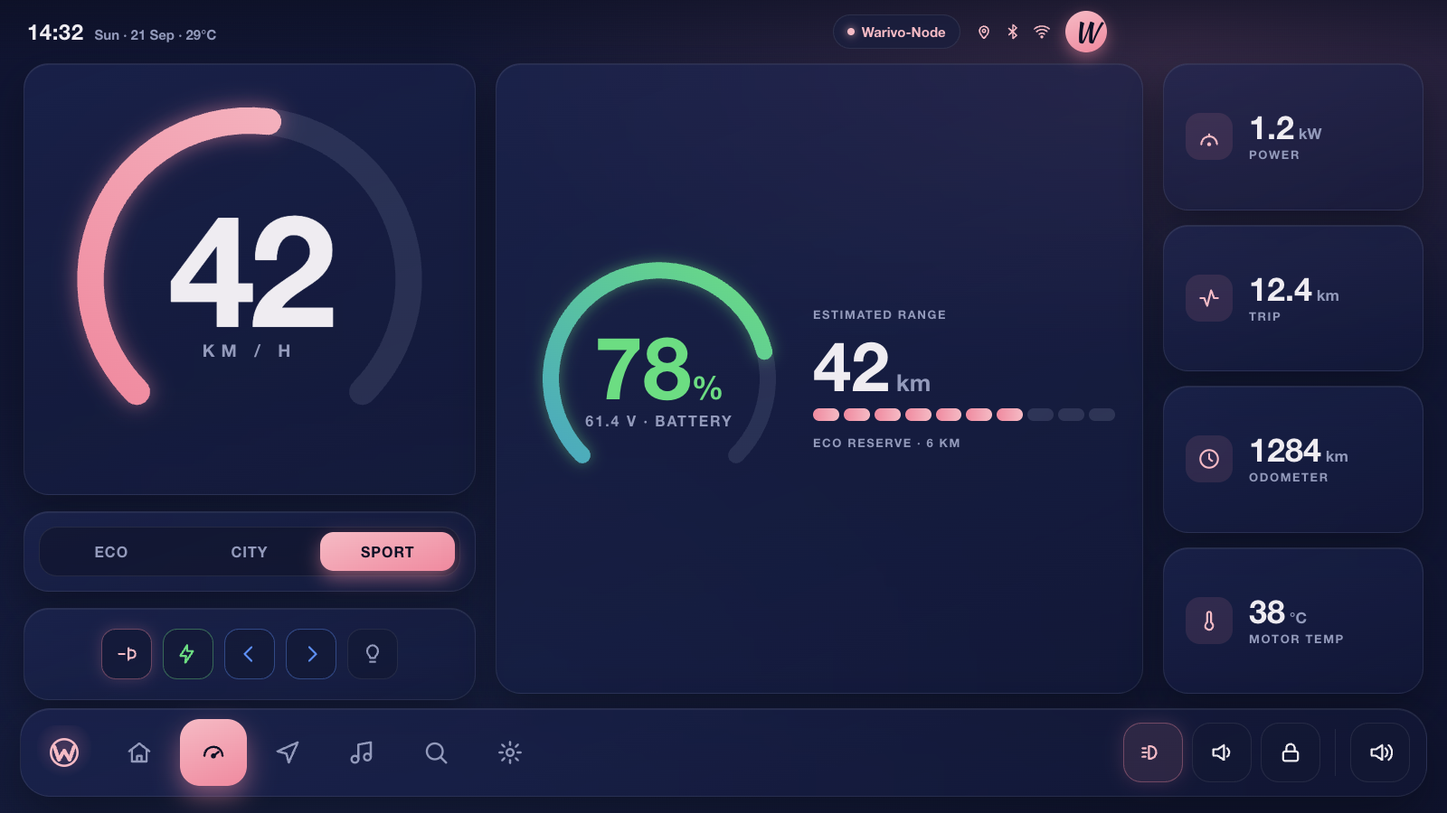
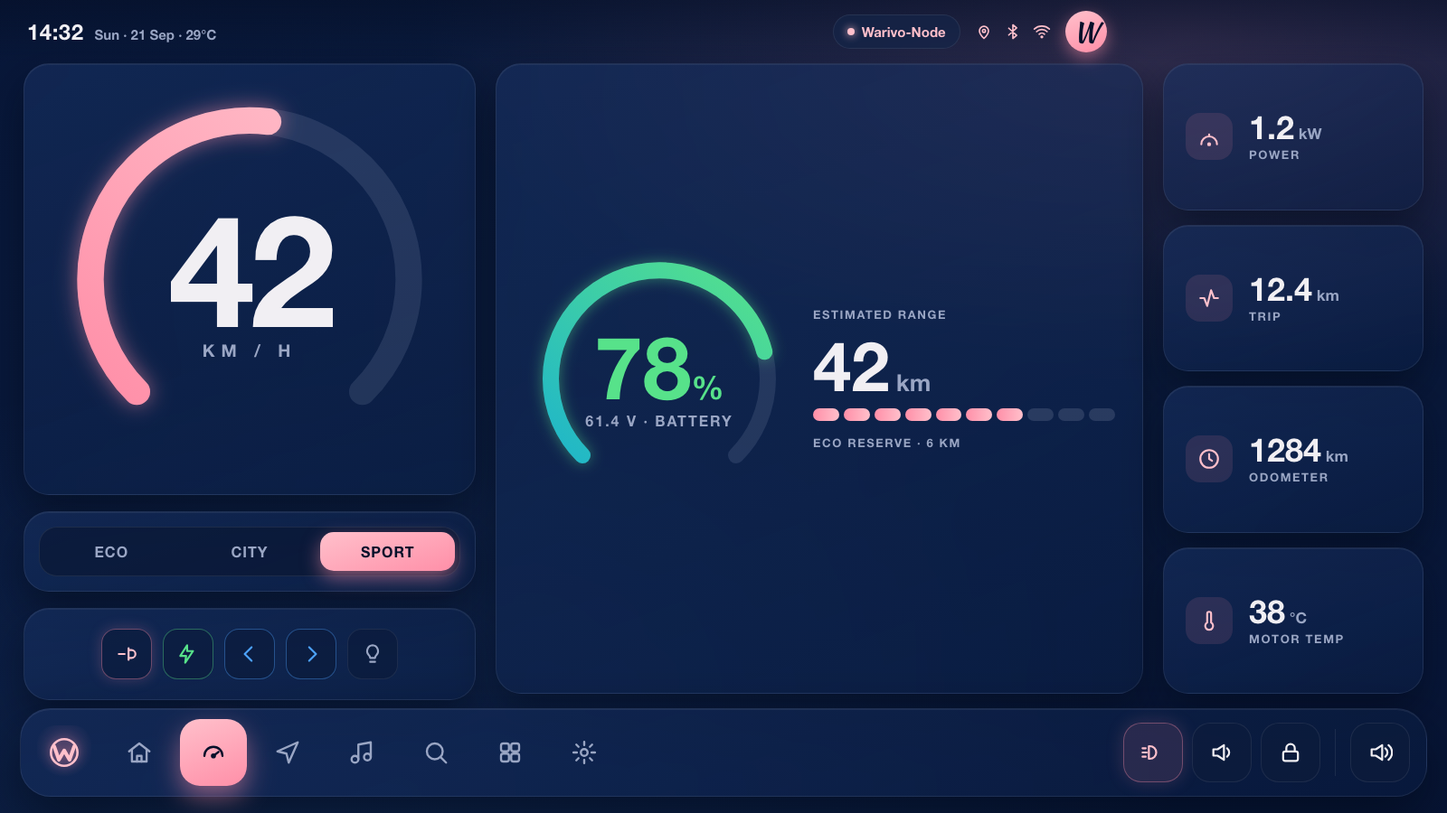
mockups: Control Center screen — bento grid of vehicle functions
Branding/mockup work from the parallel session, committed as-is — not reviewed
here beyond checking it touches nothing outside branding/.

  - New 09-controls.html: a 16-column bento of vehicle functions — ride-mode
    hero, immobiliser, alarm, underglow, find-my-scooter, and seat/charge/horn/
    hazard tiles, plus a mini player.
  - State is carried by the tile fill rather than a border: dark off, white
    engaged, blush accent, so the lit tiles are the only thing that reads from
    across the cabin.
  - Dock gains a Controls entry on every screen; actions.js toggles the new
    tiles, remembering an accent tile so a second tap lights it blush again.
  - warivo.css gains the .cc/.bento/.bt rules; index.html and branding/README.md
    list the new screen; all PNGs re-rendered from the current CSS.

diff --git a/branding/mockups/09-controls.html b/branding/mockups/09-controls.html
@@ -1,0 +1,193 @@
+<!DOCTYPE html>
+<html lang="en">
+<head>
+<meta charset="utf-8"/>
+<title>Warivo OS — Control Center</title>
+<link rel="stylesheet" href="warivo.css"/>
+</head>
+<body>
+<div class="os">
+  <div class="stage">
+    <div class="screen">
+      <div class="cc">
+        <div class="cc-head">
+          <div class="h">Control Center</div>
+          <div class="edit"><svg viewBox="0 0 24 24"><circle cx="12" cy="12" r="3"/><path d="M12 2.5v3M12 18.5v3M2.5 12h3M18.5 12h3M5 5l2 2M17 17l2 2M19 5l-2 2M7 17l-2 2"/></svg></div>
+        </div>
+
+        <div class="bento">
+          <!-- HERO — ride mode -->
+          <div class="bt hero">
+            <div class="ht">Ride<br/>Mode</div>
+            <div class="hs">personalise</div>
+            <div class="art">
+              <svg viewBox="0 0 320 175">
+                <defs>
+                  <linearGradient id="body" x1=".15" y1="0" x2=".4" y2="1">
+                    <stop offset="0" stop-color="#5C6B90"/><stop offset=".42" stop-color="#222E4A"/>
+                    <stop offset="1" stop-color="#0A1123"/>
+                  </linearGradient>
+                  <linearGradient id="shield" x1=".2" y1="0" x2=".7" y2="1">
+                    <stop offset="0" stop-color="#54648A"/><stop offset=".5" stop-color="#1D2841"/>
+                    <stop offset="1" stop-color="#090F1F"/>
+                  </linearGradient>
+                  <linearGradient id="rim" x1="0" y1="0" x2="1" y2="1">
+                    <stop offset="0" stop-color="#FFC0CB"/><stop offset="1" stop-color="#FF8FA8"/>
+                  </linearGradient>
+                  <radialGradient id="shadow" cx=".5" cy=".5" r=".5">
+                    <stop offset="0" stop-color="#03081A" stop-opacity=".92"/>
+                    <stop offset="1" stop-color="#03081A" stop-opacity="0"/>
+                  </radialGradient>
+                </defs>
+                <ellipse cx="158" cy="157" rx="138" ry="15" fill="url(#shadow)"/>
+
+                <!-- rear cowl rising over the back wheel, dropping to the footboard -->
+                <path fill="url(#body)" d="M38 114 C33 88 48 73 78 72 L150 76 L170 94 L198 102
+                  L202 124 L124 130 L54 128 Z"/>
+                <!-- front leg shield up to the bars -->
+                <path fill="url(#shield)" d="M184 102 L205 56 C210 43 221 38 236 38 L252 38 L263 58
+                  L269 102 L263 124 L228 128 L196 126 L186 114 Z"/>
+
+                <!-- seat: a pad you can actually see, with its own top highlight -->
+                <path fill="#1A2440" d="M94 78 C95 64 107 58 122 58 L177 58 C187 58 191 66 191 75
+                  L191 83 L96 86 Z"/>
+                <path fill="none" stroke="#46557C" stroke-width="1.6" stroke-linecap="round"
+                      d="M100 66 C105 60 112 58 123 58 L177 58 C186 58 190 65 190 73"/>
+
+                <!-- blush rim light where it really falls: cowl shoulder + shield leading edge -->
+                <path fill="none" stroke="url(#rim)" stroke-width="3" stroke-linecap="round"
+                      d="M45 96 C43 84 55 74 78 73 L118 75"/>
+                <path fill="none" stroke="url(#rim)" stroke-width="3" stroke-linecap="round"
+                      d="M206 56 C211 43 221 38 236 38 L250 38"/>
+
+                <!-- handlebar + headlamp -->
+                <path fill="none" stroke="#3B4A6E" stroke-width="6" stroke-linecap="round" d="M230 40 L257 27"/>
+                <circle cx="268" cy="66" r="9" fill="url(#rim)"/>
+                <circle cx="268" cy="66" r="20" fill="url(#rim)" opacity=".15"/>
+
+                <!-- wheels last: they sit in front of the bodywork -->
+                <circle cx="82" cy="124" r="30" fill="#060B18" stroke="#080E1E" stroke-width="13"/>
+                <circle cx="246" cy="124" r="30" fill="#060B18" stroke="#080E1E" stroke-width="13"/>
+                <circle cx="82" cy="124" r="36.2" fill="none" stroke="#31405E" stroke-width="1.4"/>
+                <circle cx="246" cy="124" r="36.2" fill="none" stroke="#31405E" stroke-width="1.4"/>
+                <circle cx="82" cy="124" r="14" fill="none" stroke="#3C4D77" stroke-width="5"/>
+                <circle cx="246" cy="124" r="14" fill="none" stroke="#3C4D77" stroke-width="5"/>
+                <circle cx="82" cy="124" r="4.5" fill="#546590"/>
+                <circle cx="246" cy="124" r="4.5" fill="#546590"/>
+              </svg>
+            </div>
+          </div>
+
+          <!-- ROW 1 -->
+          <div class="bt sq">
+            <svg viewBox="0 0 24 24"><rect x="4" y="11" width="16" height="9" rx="2.5"/><path d="M8 11V8.5a4 4 0 0 1 8 0V11"/><path d="M12 15v1.5"/></svg>
+            <div class="l">Seat Lock</div>
+          </div>
+          <div class="bt sq">
+            <svg viewBox="0 0 24 24"><rect x="6" y="6" width="12" height="14" rx="2.5"/><path d="M9.5 6V4.5h5V6"/><path d="M12 9.5v3.5M12 13l-1.6 2.5h3.2"/></svg>
+            <div class="l">Charge Port</div>
+          </div>
+          <div class="bt wd on">
+            <svg viewBox="0 0 24 24"><rect x="4" y="10" width="16" height="10" rx="2.5"/><path d="M8 10V7a4 4 0 0 1 8 0v3"/><path d="M12 14v2.5"/></svg>
+            <div class="tx"><div class="t">Immobiliser</div><div class="s">Armed · motor cut at the controller</div></div>
+          </div>
+          <div class="bt wd">
+            <svg viewBox="0 0 24 24"><path d="M12 3 20 6v5.5c0 4.6-3.2 7.6-8 9.5-4.8-1.9-8-4.9-8-9.5V6z"/><path d="M9 12l2.2 2.2L15.5 10"/></svg>
+            <div class="tx"><div class="t">Anti-Theft Alarm</div><div class="s">Factory siren · tilt + tow armed</div></div>
+          </div>
+
+          <!-- ROW 2 -->
+          <div class="bt sq">
+            <svg viewBox="0 0 24 24"><path d="M4 10h3l5-4v12l-5-4H4z"/><path d="M16 9a4 4 0 0 1 0 6"/><path d="M19 6.5a7.5 7.5 0 0 1 0 11"/></svg>
+            <div class="l">Horn</div>
+          </div>
+          <div class="bt sq">
+            <svg viewBox="0 0 24 24"><path d="M12 3 3.5 18.5h17z"/><path d="M12 9v4"/><path d="M12 15.5v.6"/></svg>
+            <div class="l">Hazards</div>
+          </div>
+          <div class="bt wd hot">
+            <svg viewBox="0 0 24 24"><circle cx="12" cy="12" r="4"/><path d="M12 2.5v3M12 18.5v3M2.5 12h3M18.5 12h3M5.2 5.2l2.1 2.1M16.7 16.7l2.1 2.1M18.8 5.2l-2.1 2.1M7.3 16.7l-2.1 2.1"/></svg>
+            <div class="tx"><div class="t">Underglow</div><div class="s">Blush · 60% · follows ride mode</div></div>
+          </div>
+          <div class="bt wd">
+            <svg viewBox="0 0 24 24"><path d="M21 3 3 10.5l8 2.5 2.5 8z"/></svg>
+            <div class="tx"><div class="t">Find My Scooter</div><div class="s">Pinged · seen 2 min ago, 40 m away</div></div>
+          </div>
+
+          <!-- ROW 3 -->
+          <div class="bt sq">
+            <svg viewBox="0 0 24 24"><path d="M4 12h5M13 7.5h2.5a4.5 4.5 0 0 1 0 9H13z"/><path d="M13 5.5v13"/></svg>
+            <div class="l">Headlight</div>
+          </div>
+          <div class="bt sq">
+            <svg viewBox="0 0 24 24"><path d="M20 8H9.5a4.5 4.5 0 0 0 0 9H15"/><path d="M12.5 4.5 9 8l3.5 3.5"/></svg>
+            <div class="l">Reverse</div>
+          </div>
+          <div class="bt sq">
+            <svg viewBox="0 0 24 24"><path d="M4.5 15a7.5 7.5 0 0 1 15 0"/><path d="M12 15l4-3.2"/><circle cx="12" cy="15" r="1.3"/><path d="M8 19.5h8"/></svg>
+            <div class="l">Cruise Hold</div>
+          </div>
+          <div class="bt sq">
+            <svg viewBox="0 0 24 24"><circle cx="12" cy="12" r="8"/><circle cx="12" cy="12" r="3"/><path d="M12 4v1.5M12 18.5V20M4 12h1.5M18.5 12H20"/></svg>
+            <div class="l">Tyre PSI</div>
+          </div>
+          <div class="bt wd">
+            <svg viewBox="0 0 24 24"><path d="M12 21c0-6 3.5-10 8-11-1 5.5-4 9.5-8 11z"/><path d="M12 21C12 15 8.5 11 4 10c1 5.5 4 9.5 8 11z"/><path d="M12 21v-4"/><path d="M9.5 3v3.5a2.5 2.5 0 0 0 5 0V3"/></svg>
+            <div class="tx"><div class="t">Eco Regen</div><div class="s">Recovers 8% of pack per city ride</div></div>
+          </div>
+          <div class="bt media">
+            <div class="cover"><svg viewBox="0 0 24 24"><path d="M9 18V5l11-2v13"/><circle cx="6" cy="18" r="3"/><circle cx="17" cy="16" r="3"/></svg></div>
+            <div class="mx">
+              <div class="t">Midnight City Lights</div>
+              <div class="s">Neon Skyline</div>
+              <div class="eq"><i style="height:9px"></i><i style="height:18px"></i><i style="height:13px"></i><i style="height:22px"></i><i style="height:7px"></i><i style="height:16px"></i><i style="height:11px"></i></div>
+            </div>
+            <div class="pbtn"><svg viewBox="0 0 24 24"><path d="M7 5h3v14H7zM14 5h3v14h-3z"/></svg></div>
+          </div>
+        </div>
+
+        <div class="cc-dots"><i class="on"></i><i></i><i></i></div>
+      </div>
+    </div>
+  </div>
+
+  <!-- TOP STATUS -->
+  <div class="topbar">
+    <div class="clock"><span class="t">14:32</span><span class="d">Sun · 21 Sep · 29°C</span></div>
+    <div class="sp"></div>
+    <div class="stat">
+      <div class="chip live"><span class="dot"></span>Warivo-Node</div>
+      <div class="sig">
+        <svg class="on" viewBox="0 0 24 24"><path d="M12 21s-6-5.7-6-10a6 6 0 1 1 12 0c0 4.3-6 10-6 10z"/><circle cx="12" cy="11" r="2"/></svg>
+        <svg class="on" viewBox="0 0 24 24"><path d="M6.5 7.5 17 17l-5 4V3l5 4-10.5 9.5"/></svg>
+        <svg class="on" viewBox="0 0 24 24"><path d="M2 8.5a15 15 0 0 1 20 0"/><path d="M5 12a10 10 0 0 1 14 0"/><path d="M8.5 15.5a5 5 0 0 1 7 0"/><circle cx="12" cy="19" r="1"/></svg>
+      </div>
+      <div class="avatar">W</div>
+    </div>
+  </div>
+
+  <!-- DOCK -->
+  <div class="dock">
+    <div class="dock-apps">
+      <a href="00-home.html" class="brand"><svg viewBox="0 0 120 120"><circle cx="60" cy="60" r="40" fill="none" stroke="#FFC0CB" stroke-width="7"/><polyline points="30,42 44,82 60,54 76,82 90,42" fill="none" stroke="#FFC0CB" stroke-width="11" stroke-linecap="round" stroke-linejoin="round"/></svg></a>
+      <a href="00-home.html" class="tile"><svg viewBox="0 0 24 24"><path d="M3 11l9-7 9 7"/><path d="M5.5 9.5V20h13V9.5"/><path d="M10 20v-5h4v5"/></svg></a>
+      <a href="02-dashboard.html" class="tile"><svg viewBox="0 0 24 24"><path d="M4 15a8 8 0 0 1 16 0"/><path d="M12 15l4.5-3.5"/><circle cx="12" cy="15" r="1.3"/></svg></a>
+      <a href="03-map.html" class="tile"><svg viewBox="0 0 24 24"><path d="M3 11l18-8-8 18-2-8z"/></svg></a>
+      <a href="04-music.html" class="tile"><svg viewBox="0 0 24 24"><path d="M9 18V5l11-2v13"/><circle cx="6" cy="18" r="3"/><circle cx="17" cy="16" r="3"/></svg></a>
+      <a href="05-search.html" class="tile"><svg viewBox="0 0 24 24"><circle cx="11" cy="11" r="7"/><path d="M21 21l-4.3-4.3"/></svg></a>
+      <a href="09-controls.html" class="tile active"><svg viewBox="0 0 24 24"><rect x="4" y="4" width="7" height="7" rx="2"/><rect x="13" y="4" width="7" height="7" rx="2"/><rect x="4" y="13" width="7" height="7" rx="2"/><rect x="13" y="13" width="7" height="7" rx="2"/></svg></a>
+      <a href="06-settings.html" class="tile"><svg viewBox="0 0 24 24"><circle cx="12" cy="12" r="3"/><path d="M12 2.5v3M12 18.5v3M2.5 12h3M18.5 12h3M5 5l2 2M17 17l2 2M19 5l-2 2M7 17l-2 2"/></svg></a>
+    </div>
+    <div class="dock-ctrl">
+      <div class="ctrl on"><svg viewBox="0 0 24 24"><path d="M2 8h3M2 12h4M2 16h3"/><path d="M9 6a6 6 0 0 1 0 12h-1V6z"/></svg></div>
+      <div class="ctrl"><svg viewBox="0 0 24 24"><path d="M4 9v6h4l6 4V5L8 9H4z"/><path d="M17 8a5 5 0 0 1 0 8"/></svg></div>
+      <div class="ctrl on"><svg viewBox="0 0 24 24"><rect x="5" y="11" width="14" height="9" rx="2"/><path d="M8 11V8a4 4 0 0 1 8 0v3"/></svg></div>
+      <div class="sep"></div>
+      <div class="ctrl"><svg viewBox="0 0 24 24"><path d="M4 9v6h4l6 4V5L8 9H4z"/><path d="M17 8a5 5 0 0 1 0 8M20 5a9 9 0 0 1 0 14"/></svg></div>
+    </div>
+  </div>
+</div>
+<script src="fit.js"></script>
+<script src="actions.js"></script>
+</body>
+</html>

diff --git a/branding/mockups/warivo.css b/branding/mockups/warivo.css
@@ -159,3 +159,73 @@ body{
 @keyframes press{0%{transform:scale(1)}40%{transform:scale(.88)}100%{transform:scale(1)}}
 @keyframes wglow{0%,100%{filter:drop-shadow(0 0 5px rgba(255,143,168,.4))}50%{filter:drop-shadow(0 0 16px rgba(255,143,168,.85))}}
 .dock .brand svg{animation:wglow 3s ease-in-out infinite}
+
+/* ---- Control Center: bento grid of vehicle functions -------------------
+   A 16-column bento of flat tiles. State is carried by the tile *fill*, not by
+   a border: dark = off, white (.on) = engaged, blush (.hot) = accent. Icons are
+   one stroke weight throughout and secondary text sits at ~58% so the lit tiles
+   are the only thing that reads from across the cabin. */
+.cc{display:flex;flex-direction:column;width:100%;gap:16px}
+.cc-head{display:flex;align-items:center;justify-content:space-between;height:34px;padding:0 6px}
+.cc-head .h{font-size:17px;font-weight:800;letter-spacing:3.4px;text-transform:uppercase}
+.cc-head .edit{width:44px;height:44px;border-radius:50%;display:grid;place-items:center;
+  background:rgba(255,255,255,.07);border:1px solid var(--line);color:var(--text)}
+.cc-head .edit svg{width:22px;height:22px;stroke:currentColor;fill:none;stroke-width:1.9;
+  stroke-linecap:round;stroke-linejoin:round}
+.cc-dots{display:flex;align-items:center;justify-content:center;gap:9px;height:22px}
+.cc-dots i{width:9px;height:9px;border-radius:5px;background:rgba(154,166,196,.32)}
+.cc-dots i.on{width:28px;background:var(--aqua);box-shadow:0 0 12px var(--glow)}
+
+.bento{flex:1;display:grid;grid-template-columns:repeat(16,1fr);grid-auto-rows:1fr;gap:16px}
+
+.bt{border-radius:22px;background:var(--surface);border:1px solid var(--line);
+  box-shadow:0 14px 30px rgba(2,8,22,.36);position:relative;overflow:hidden;transition:.18s}
+.bt svg{stroke:currentColor;fill:none;stroke-width:1.75;stroke-linecap:round;stroke-linejoin:round}
+
+/* square tile — icon centred, label beneath */
+.bt.sq{grid-column:span 2;display:flex;flex-direction:column;align-items:center;
+  justify-content:center;gap:18px;padding:16px 10px;color:var(--text)}
+.bt.sq svg{width:36px;height:36px}
+.bt.sq .l{font-size:15px;font-weight:700;color:var(--dim);text-align:center;line-height:1.2}
+
+/* wide tile — icon left, title over subtitle */
+.bt.wd{grid-column:span 4;display:flex;align-items:center;gap:20px;padding:0 26px;color:var(--text)}
+.bt.wd svg{width:40px;height:40px;flex:0 0 auto}
+.bt.wd .tx{display:flex;flex-direction:column;gap:5px;min-width:0}
+.bt.wd .t{font-size:19px;font-weight:700;letter-spacing:.2px}
+.bt.wd .s{font-size:14px;font-weight:600;color:var(--dim)}
+
+/* the two lit states */
+.bt.on{background:#F4F1F6;border-color:transparent;color:var(--black);
+  box-shadow:0 16px 34px rgba(2,8,22,.5)}
+.bt.on .l,.bt.on .s{color:rgba(5,16,42,.58)}
+.bt.hot{background:linear-gradient(150deg,var(--aqua),var(--aqua-deep));border-color:transparent;
+  color:var(--black);box-shadow:0 16px 36px var(--glow)}
+.bt.hot .l,.bt.hot .s{color:rgba(5,16,42,.62)}
+
+/* hero — ride mode, with the scooter render bleeding off the card */
+.bt.hero{grid-column:span 4;grid-row:span 2;display:flex;flex-direction:column;padding:28px 30px;
+  background:radial-gradient(120% 85% at 78% 10%, rgba(255,143,168,.20), transparent 58%),
+             linear-gradient(200deg,#0D1B3C,#060D20)}
+.bt.hero .ht{font-size:38px;font-weight:800;line-height:.94;letter-spacing:-.8px;text-transform:uppercase}
+.bt.hero .hs{font-family:'Warivo Script',cursive;font-size:34px;color:var(--aqua);margin-top:10px;
+  filter:drop-shadow(0 3px 14px var(--glow))}
+.bt.hero .art{position:absolute;left:-30px;right:-30px;bottom:-20px}
+.bt.hero .art svg{width:100%;height:auto;stroke:none}
+
+/* media — album art, equaliser, transport pill */
+.bt.media{grid-column:span 4;display:flex;align-items:center;padding:0}
+.bt.media .cover{width:112px;align-self:stretch;flex:0 0 auto;display:grid;place-items:center;
+  background:linear-gradient(150deg,#FFC0CB,#9B7BE0 58%,#4DA3FF)}
+.bt.media .cover svg{width:42px;height:42px;stroke:rgba(5,16,42,.7);stroke-width:1.9}
+.bt.media .mx{flex:1;min-width:0;padding:0 6px 0 18px;overflow:hidden}
+.bt.media .t{font-size:17px;font-weight:700;white-space:nowrap;overflow:hidden;text-overflow:ellipsis}
+.bt.media .s{font-size:13px;font-weight:600;color:var(--dim);margin-top:3px}
+.bt.media .eq{display:flex;align-items:flex-end;gap:4px;height:22px;margin-top:11px}
+.bt.media .eq i{width:4px;border-radius:2px;background:var(--aqua)}
+.bt.media .pbtn{width:46px;height:46px;border-radius:50%;flex:0 0 auto;margin-right:18px;
+  display:grid;place-items:center;background:linear-gradient(150deg,var(--aqua),var(--aqua-deep));
+  box-shadow:0 8px 20px var(--glow)}
+.bt.media .pbtn svg{width:20px;height:20px;fill:var(--black);stroke:none}
+
+.bt.sq,.bt.wd,.bt.hero{cursor:pointer}

diff --git a/branding/mockups/index.html b/branding/mockups/index.html
@@ -100,13 +100,14 @@
     <a class="cardlink" href="03-map.html"><img class="thumb" src="png/03-map.png" alt="Navigation"/><div class="meta"><div class="l"><div class="n">Navigation</div><div class="f">03-map.html</div></div><div class="go"><svg viewBox="0 0 24 24"><path d="M5 12h14M13 6l6 6-6 6"/></svg></div></div></a>
     <a class="cardlink" href="04-music.html"><img class="thumb" src="png/04-music.png" alt="Media"/><div class="meta"><div class="l"><div class="n">Media</div><div class="f">04-music.html</div></div><div class="go"><svg viewBox="0 0 24 24"><path d="M5 12h14M13 6l6 6-6 6"/></svg></div></div></a>
     <a class="cardlink" href="05-search.html"><img class="thumb" src="png/05-search.png" alt="Google Search"/><div class="meta"><div class="l"><div class="n">Google Search</div><div class="f">05-search.html</div></div><div class="go"><svg viewBox="0 0 24 24"><path d="M5 12h14M13 6l6 6-6 6"/></svg></div></div></a>
+    <a class="cardlink" href="09-controls.html"><img class="thumb" src="png/09-controls.png" alt="Control Center"/><div class="meta"><div class="l"><div class="n">Control Center</div><div class="f">09-controls.html</div></div><div class="go"><svg viewBox="0 0 24 24"><path d="M5 12h14M13 6l6 6-6 6"/></svg></div></div></a>
     <a class="cardlink" href="06-settings.html"><img class="thumb" src="png/06-settings.png" alt="Settings"/><div class="meta"><div class="l"><div class="n">Settings</div><div class="f">06-settings.html</div></div><div class="go"><svg viewBox="0 0 24 24"><path d="M5 12h14M13 6l6 6-6 6"/></svg></div></div></a>
     <a class="cardlink" href="07-about.html"><img class="thumb" src="png/07-about.png" alt="About"/><div class="meta"><div class="l"><div class="n">About</div><div class="f">07-about.html</div></div><div class="go"><svg viewBox="0 0 24 24"><path d="M5 12h14M13 6l6 6-6 6"/></svg></div></div></a>
     <a class="cardlink" href="08-lock.html"><img class="thumb" src="png/08-lock.png" alt="Lock / PIN"/><div class="meta"><div class="l"><div class="n">Lock / PIN unlock</div><div class="f">08-lock.html</div></div><div class="go"><svg viewBox="0 0 24 24"><path d="M5 12h14M13 6l6 6-6 6"/></svg></div></div></a>
     <a class="cardlink" href="01-boot.html"><img class="thumb" src="png/01-boot.png" alt="Boot"/><div class="meta"><div class="l"><div class="n">Boot / Splash</div><div class="f">01-boot.html</div></div><div class="go"><svg viewBox="0 0 24 24"><path d="M5 12h14M13 6l6 6-6 6"/></svg></div></div></a>
   </div>
 
-  <div class="note">Tap any screen to open it. Inside a screen, use the bottom dock to move between Home · Dashboard · Navigation · Media · Search · Settings.</div>
+  <div class="note">Tap any screen to open it. Inside a screen, use the bottom dock to move between Home · Dashboard · Navigation · Media · Search · Control Center · Settings.</div>
 
   <script>
     (function () {

diff --git a/branding/mockups/03-map.html b/branding/mockups/03-map.html
@@ -151,6 +151,7 @@
       <a href="03-map.html" class="tile active"><svg viewBox="0 0 24 24"><path d="M3 11l18-8-8 18-2-8z"/></svg></a>
       <a href="04-music.html" class="tile"><svg viewBox="0 0 24 24"><path d="M9 18V5l11-2v13"/><circle cx="6" cy="18" r="3"/><circle cx="17" cy="16" r="3"/></svg></a>
       <a href="05-search.html" class="tile"><svg viewBox="0 0 24 24"><circle cx="11" cy="11" r="7"/><path d="M21 21l-4.3-4.3"/></svg></a>
+      <a href="09-controls.html" class="tile"><svg viewBox="0 0 24 24"><rect x="4" y="4" width="7" height="7" rx="2"/><rect x="13" y="4" width="7" height="7" rx="2"/><rect x="4" y="13" width="7" height="7" rx="2"/><rect x="13" y="13" width="7" height="7" rx="2"/></svg></a>
       <a href="06-settings.html" class="tile"><svg viewBox="0 0 24 24"><circle cx="12" cy="12" r="3"/><path d="M12 2.5v3M12 18.5v3M2.5 12h3M18.5 12h3M5 5l2 2M17 17l2 2M19 5l-2 2M7 17l-2 2"/></svg></a>
     </div>
     <div class="dock-ctrl">

diff --git a/branding/mockups/04-music.html b/branding/mockups/04-music.html
@@ -158,6 +158,7 @@
       <a href="03-map.html" class="tile"><svg viewBox="0 0 24 24"><path d="M3 11l18-8-8 18-2-8z"/></svg></a>
       <a href="04-music.html" class="tile active"><svg viewBox="0 0 24 24"><path d="M9 18V5l11-2v13"/><circle cx="6" cy="18" r="3"/><circle cx="17" cy="16" r="3"/></svg></a>
       <a href="05-search.html" class="tile"><svg viewBox="0 0 24 24"><circle cx="11" cy="11" r="7"/><path d="M21 21l-4.3-4.3"/></svg></a>
+      <a href="09-controls.html" class="tile"><svg viewBox="0 0 24 24"><rect x="4" y="4" width="7" height="7" rx="2"/><rect x="13" y="4" width="7" height="7" rx="2"/><rect x="4" y="13" width="7" height="7" rx="2"/><rect x="13" y="13" width="7" height="7" rx="2"/></svg></a>
       <a href="06-settings.html" class="tile"><svg viewBox="0 0 24 24"><circle cx="12" cy="12" r="3"/><path d="M12 2.5v3M12 18.5v3M2.5 12h3M18.5 12h3M5 5l2 2M17 17l2 2M19 5l-2 2M7 17l-2 2"/></svg></a>
     </div>
     <div class="dock-ctrl">

diff --git a/branding/mockups/06-settings.html b/branding/mockups/06-settings.html
@@ -132,6 +132,7 @@
       <a href="03-map.html" class="tile"><svg viewBox="0 0 24 24"><path d="M3 11l18-8-8 18-2-8z"/></svg></a>
       <a href="04-music.html" class="tile"><svg viewBox="0 0 24 24"><path d="M9 18V5l11-2v13"/><circle cx="6" cy="18" r="3"/><circle cx="17" cy="16" r="3"/></svg></a>
       <a href="05-search.html" class="tile"><svg viewBox="0 0 24 24"><circle cx="11" cy="11" r="7"/><path d="M21 21l-4.3-4.3"/></svg></a>
+      <a href="09-controls.html" class="tile"><svg viewBox="0 0 24 24"><rect x="4" y="4" width="7" height="7" rx="2"/><rect x="13" y="4" width="7" height="7" rx="2"/><rect x="4" y="13" width="7" height="7" rx="2"/><rect x="13" y="13" width="7" height="7" rx="2"/></svg></a>
       <a href="06-settings.html" class="tile active"><svg viewBox="0 0 24 24"><circle cx="12" cy="12" r="3"/><path d="M12 2.5v3M12 18.5v3M2.5 12h3M18.5 12h3M5 5l2 2M17 17l2 2M19 5l-2 2M7 17l-2 2"/></svg></a>
     </div>
     <div class="dock-ctrl">

diff --git a/branding/mockups/07-about.html b/branding/mockups/07-about.html
@@ -146,6 +146,7 @@
       <a href="03-map.html" class="tile"><svg viewBox="0 0 24 24"><path d="M3 11l18-8-8 18-2-8z"/></svg></a>
       <a href="04-music.html" class="tile"><svg viewBox="0 0 24 24"><path d="M9 18V5l11-2v13"/><circle cx="6" cy="18" r="3"/><circle cx="17" cy="16" r="3"/></svg></a>
       <a href="05-search.html" class="tile"><svg viewBox="0 0 24 24"><circle cx="11" cy="11" r="7"/><path d="M21 21l-4.3-4.3"/></svg></a>
+      <a href="09-controls.html" class="tile"><svg viewBox="0 0 24 24"><rect x="4" y="4" width="7" height="7" rx="2"/><rect x="13" y="4" width="7" height="7" rx="2"/><rect x="4" y="13" width="7" height="7" rx="2"/><rect x="13" y="13" width="7" height="7" rx="2"/></svg></a>
       <a href="06-settings.html" class="tile active"><svg viewBox="0 0 24 24"><circle cx="12" cy="12" r="3"/><path d="M12 2.5v3M12 18.5v3M2.5 12h3M18.5 12h3M5 5l2 2M17 17l2 2M19 5l-2 2M7 17l-2 2"/></svg></a>
     </div>
     <div class="dock-ctrl">

diff --git a/branding/mockups/05-search.html b/branding/mockups/05-search.html
@@ -97,6 +97,7 @@
       <a href="03-map.html" class="tile"><svg viewBox="0 0 24 24"><path d="M3 11l18-8-8 18-2-8z"/></svg></a>
       <a href="04-music.html" class="tile"><svg viewBox="0 0 24 24"><path d="M9 18V5l11-2v13"/><circle cx="6" cy="18" r="3"/><circle cx="17" cy="16" r="3"/></svg></a>
       <a href="05-search.html" class="tile active"><svg viewBox="0 0 24 24"><circle cx="11" cy="11" r="7"/><path d="M21 21l-4.3-4.3"/></svg></a>
+      <a href="09-controls.html" class="tile"><svg viewBox="0 0 24 24"><rect x="4" y="4" width="7" height="7" rx="2"/><rect x="13" y="4" width="7" height="7" rx="2"/><rect x="4" y="13" width="7" height="7" rx="2"/><rect x="13" y="13" width="7" height="7" rx="2"/></svg></a>
       <a href="06-settings.html" class="tile"><svg viewBox="0 0 24 24"><circle cx="12" cy="12" r="3"/><path d="M12 2.5v3M12 18.5v3M2.5 12h3M18.5 12h3M5 5l2 2M17 17l2 2M19 5l-2 2M7 17l-2 2"/></svg></a>
     </div>
     <div class="dock-ctrl">

diff --git a/branding/mockups/00-home.html b/branding/mockups/00-home.html
@@ -163,6 +163,7 @@
       <a href="03-map.html" class="tile"><svg viewBox="0 0 24 24"><path d="M3 11l18-8-8 18-2-8z"/></svg></a>
       <a href="04-music.html" class="tile"><svg viewBox="0 0 24 24"><path d="M9 18V5l11-2v13"/><circle cx="6" cy="18" r="3"/><circle cx="17" cy="16" r="3"/></svg></a>
       <a href="05-search.html" class="tile"><svg viewBox="0 0 24 24"><circle cx="11" cy="11" r="7"/><path d="M21 21l-4.3-4.3"/></svg></a>
+      <a href="09-controls.html" class="tile"><svg viewBox="0 0 24 24"><rect x="4" y="4" width="7" height="7" rx="2"/><rect x="13" y="4" width="7" height="7" rx="2"/><rect x="4" y="13" width="7" height="7" rx="2"/><rect x="13" y="13" width="7" height="7" rx="2"/></svg></a>
       <a href="06-settings.html" class="tile"><svg viewBox="0 0 24 24"><circle cx="12" cy="12" r="3"/><path d="M12 2.5v3M12 18.5v3M2.5 12h3M18.5 12h3M5 5l2 2M17 17l2 2M19 5l-2 2M7 17l-2 2"/></svg></a>
     </div>
     <div class="dock-ctrl">

diff --git a/branding/mockups/02-dashboard.html b/branding/mockups/02-dashboard.html
@@ -158,6 +158,7 @@
       <a href="03-map.html" class="tile"><svg viewBox="0 0 24 24"><path d="M3 11l18-8-8 18-2-8z"/></svg></a>
       <a href="04-music.html" class="tile"><svg viewBox="0 0 24 24"><path d="M9 18V5l11-2v13"/><circle cx="6" cy="18" r="3"/><circle cx="17" cy="16" r="3"/></svg></a>
       <a href="05-search.html" class="tile"><svg viewBox="0 0 24 24"><circle cx="11" cy="11" r="7"/><path d="M21 21l-4.3-4.3"/></svg></a>
+      <a href="09-controls.html" class="tile"><svg viewBox="0 0 24 24"><rect x="4" y="4" width="7" height="7" rx="2"/><rect x="13" y="4" width="7" height="7" rx="2"/><rect x="4" y="13" width="7" height="7" rx="2"/><rect x="13" y="13" width="7" height="7" rx="2"/></svg></a>
       <a href="06-settings.html" class="tile"><svg viewBox="0 0 24 24"><circle cx="12" cy="12" r="3"/><path d="M12 2.5v3M12 18.5v3M2.5 12h3M18.5 12h3M5 5l2 2M17 17l2 2M19 5l-2 2M7 17l-2 2"/></svg></a>
     </div>
     <div class="dock-ctrl">

diff --git a/branding/mockups/actions.js b/branding/mockups/actions.js
@@ -33,6 +33,19 @@
       // Dock vehicle controls — headlight, horn, lock, speaker/volume
       if ((el = e.target.closest('.ctrl'))) { el.classList.toggle('on'); pulse(el); return; }
 
+      // Control-center bento tiles — dark = off, white = engaged, blush = accent.
+      // An accent tile remembers it is one, so tapping it twice lights it blush again.
+      if ((el = e.target.closest('.bt.sq, .bt.wd'))) {
+        if (el.classList.contains('hot') || el.dataset.accent) {
+          el.dataset.accent = '1';
+          el.classList.toggle('hot');
+        } else {
+          el.classList.toggle('on');
+        }
+        pulse(el);
+        return;
+      }
+
       // Quick-settings tiles (Wi-Fi, Bluetooth, GPS, Kiosk) — keep tile + toggle in sync
       if ((el = e.target.closest('.qt'))) {
         var on = el.classList.toggle('on');

diff --git a/branding/README.md b/branding/README.md
@@ -92,11 +92,12 @@ power on ─▶ 01 boot animation ─▶ 08 lock / PIN unlock ─▶ 00 home ─
 | 03 | **Navigation** | `03-map.html` | Map‑forward with a Google search bar, maneuver + ETA cards, speed puck. |
 | 04 | **Media** | `04-music.html` | Now‑playing + transport, Bluetooth output, up‑next queue. |
 | 05 | **Google search** | `05-search.html` | Google‑only search — coloured logo, pill field + voice, chips, recents. |
+| 09 | **Control Center** | `09-controls.html` | Bento grid of vehicle functions — ride‑mode hero, immobiliser, alarm, underglow, find‑my‑scooter, seat/charge/horn/hazard tiles, mini player. State is the tile *fill*: dark off, white engaged, blush accent. |
 | 06 | **Settings** | `06-settings.html` | Quick‑settings tiles (Wi‑Fi/BT/GPS/Kiosk), node status, brightness → **About**. |
 | 07 | **About** | `07-about.html` | Device/OS/node info, version, licences. |
 
 **Shell (every screen):** a persistent **bottom dock** — brand `W` (home) + app shortcuts
-`Home · Dashboard · Nav · Media · Search · Settings` on the left, and **vehicle
+`Home · Dashboard · Nav · Media · Search · Controls · Settings` on the left, and **vehicle
 quick‑controls** (headlight, horn, lock, speaker/volume) on the right — plus a floating top
 status strip. Glassy cards, Vintage‑Blush accent, and the pulsing‑glow `W`.
 
